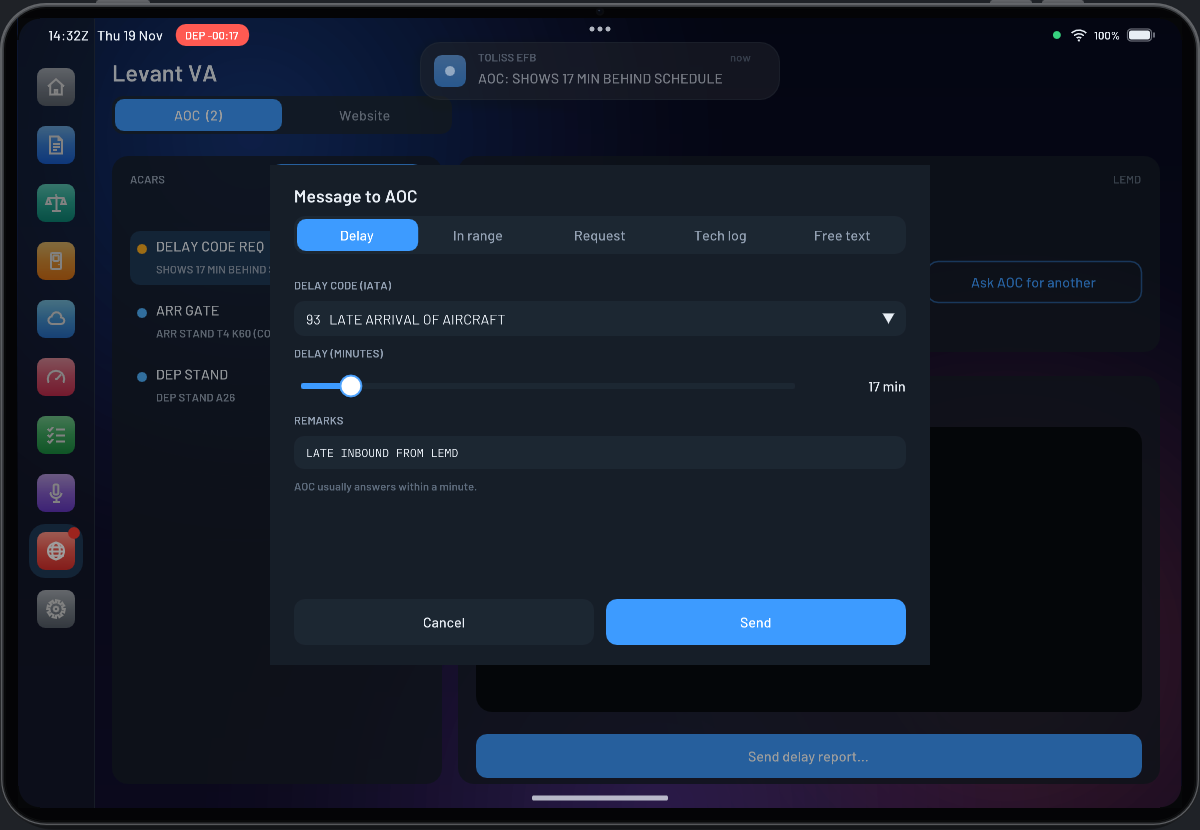
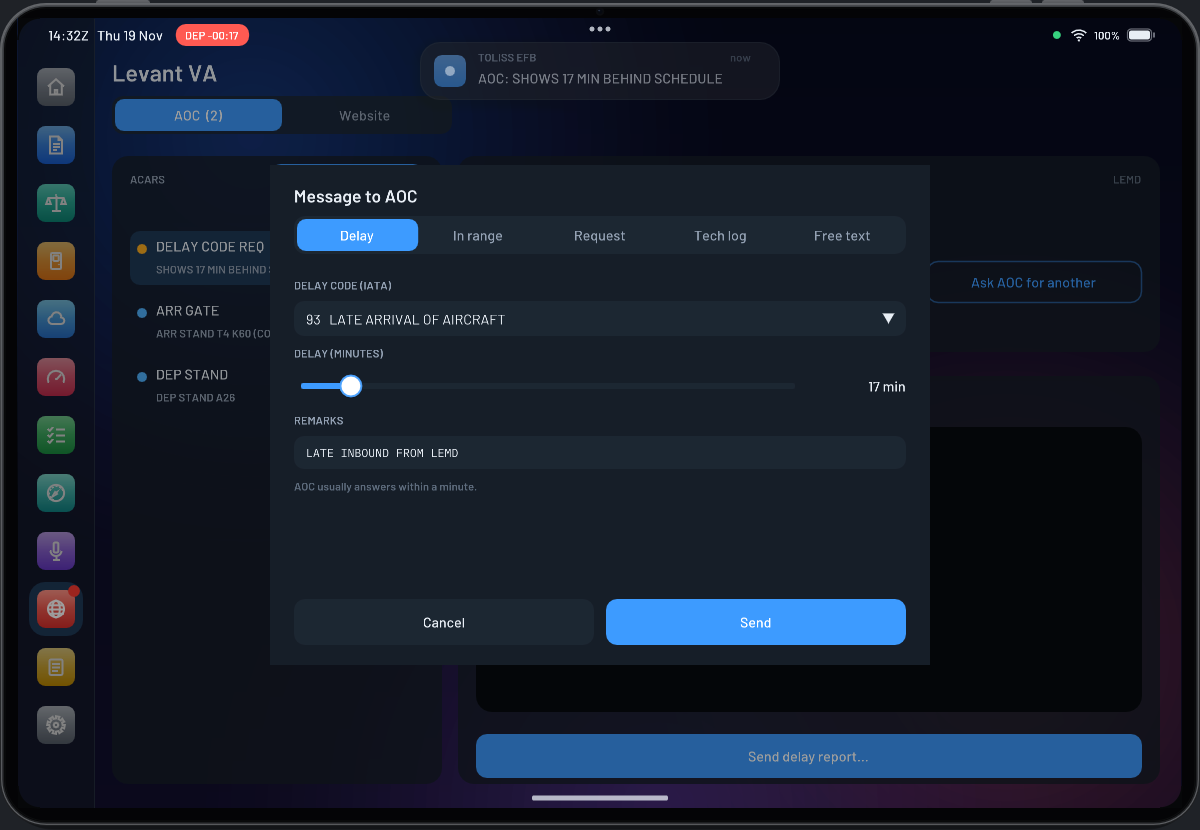
ToLiSS EFB v0.8.0

Changed region(s): [[0.0, 0.5723, 0.0925, 0.9036]]

diff --git a/README.md b/README.md
@@ -21,18 +21,24 @@ Everything is drawn in code and nothing is copied from any other product.
 | ![Loadsheet](docs/screenshots/loadsheet.png) | ![Ground](docs/screenshots/ground.png) |
 | **Takeoff calculator** | **Custom wallpaper** |
 | ![Perf](docs/screenshots/perf_calc.png) | ![Wallpaper](docs/screenshots/home_wallpaper.png) |
+| **Landing calculator** | **Map** |
+| ![Landing](docs/screenshots/landing_calc.png) | ![Map](docs/screenshots/map.png) |
+| **Logbook and landing rate** | **In flight: live ETA** |
+| ![Logbook](docs/screenshots/logbook.png) | ![In flight](docs/screenshots/home_inflight.png) |
 
 ## Apps
 
 | App | What it does |
 |---|---|
-| **Home** | An iPadOS Home Screen. Widgets: analog UTC clock, today's flight (route, OUT/OFF/ON/IN, block fuel, arrival stand), departure countdown ring, weather and live aircraft weights, pax, doors and CG. Tap a widget to open its app. App icons sit beside the widgets, and the dock at the bottom holds your favourite apps plus the ones you used last. |
+| **Home** | An iPadOS Home Screen. Widgets: analog UTC clock, today's flight (route, OUT/OFF/ON/IN, block fuel, arrival stand), departure countdown ring (after departure: the **live ETA** from where the aircraft is, distance to go and minutes early or late), weather and live aircraft weights, pax, doors and CG. Tap a widget to open its app. App icons sit beside the widgets, and the dock at the bottom holds your favourite apps plus the ones you used last. |
 | **Flight Plan** | Fetches your latest **SimBrief** OFP. Has Summary, Navlog, Fuel breakdown (stacked bar), Weights vs. limits and the full OFP text. The OFP is cached, so it's still there after a restart. |
 | **Loadsheet** | Plan pax, forward and aft cargo and block fuel (from the OFP or by hand). Loads the aircraft **instantly** or **realistically**: boarding, cargo and refuelling run over time with progress bars, pause and stop. Shows planned vs. actual ZFW/TOW/LW against MZFW/MTOW/MLW, and prints a final loadsheet. |
 | **Ground Ops** | Top-down aircraft diagram: tap a door to open or close it. Doors follow the aircraft's real door position, so a door opened from the ToLiSS ISCS shows as open, and doors swing on the diagram while moving. **Ground Power, Wheel Chocks, HP Air and LP Air** are found automatically on your aircraft. The **ToLiSS vehicles** tab drives the aircraft's own passenger stairs (1L, 2L), catering trucks (1R, 2R) and baggage loaders. **Customize** chooses which services are shown and which dataref each one uses. |
 | **Weather** | METAR and TAF from aviationweather.gov, with quick chips for origin, destination, alternate and nearest. Decodes wind, visibility, ceiling, temperature and QNH, and shows a flight-category badge. |
-| **Performance** | **Takeoff calculator** in the style of the airline tools (see below), plus the SimBrief takeoff/landing reports and a wind-component calculator. |
+| **Performance** | **Takeoff calculator** and **landing calculator** laid out like the ToLiSS ones (see below), plus the SimBrief takeoff/landing reports and a wind-component calculator. |
 | **Checklists** | Tap-through normal checklists by phase, with progress and a "next item" highlight. |
+| **Map** | Moving map like a navigation display: the SimBrief route with its waypoints and top of descent, the airports and their runways, the track you flew and your aircraft. Next waypoint, distance to go and ETA. Drag to move, + / - to zoom, ROUTE / PLANE to switch views. |
+| **Logbook** | Every flight is logged by itself at ON BLOCKS: OUT/OFF/ON/IN, block and air time, fuel used and the **landing rate** (ft/min, G and a grade from BUTTER to HARD), which also pops up right after touchdown. Totals, average and best landing, and an Export CSV button. |
 | **Airline** | AOC messages with your airline (see below) and the **Levant VA** website (https://levant-va.com/), opened in your web browser. The name and address can be changed. |
 | **Settings** | SimBrief ID, kg/lb, passenger weight, cargo split, boarding/cargo/refuel rates, night/day theme, accent colour, **iPad finish** (Space Grey, Silver, Starlight, Blue), brightness and window behaviour. **Background:** gradient presets, three bundled wallpapers or **your own picture**. Press *Upload picture...* to open your computer's file picker, or paste a link to a JPG/PNG. Uploads are kept in `Output/preferences/toliss_efb_wallpapers`, so plugin updates don't delete them. There's also a dim slider. **Cockpit:** calibration of the 3D tablet. **Diagnostics:** dataref mapping (green = found, red = missing) and a live **Explorer** of every dataref. |
 
@@ -125,6 +131,21 @@ The A320 numbers are matched to the ToLiSS calculator: for the same airport, wei
 (OEGN runway 15, 60.2 t, 32 °C, 227°/11 kt) both give CONF 1+F, FLEX 68, V1 114-138, VR 138, V2 140,
 THS UP0.7 and GREEN DOT 205. They are still **estimates, not certified data**.
 Always compare them with the ToLiSS MCDU PERF TAKE OFF page.
+
+## Landing calculator
+
+Performance > **Landing calc** works the same way for the arrival: the destination and its runways come from
+X-Plane's airport data (the plan's runway is picked first), the landing distance available (LDA) is the runway
+minus any displaced threshold, and the landing weight follows the flight (what's left after the fuel still to
+burn on the plan) until you type your own.
+
+* **VLS** is 1.23 × the 1-g stall speed in CONF FULL or 3; **VAPP** adds a third of the headwind (5 to 15 kt).
+* **Landing distance** from 50 ft over the threshold: the air distance to touchdown, 2 s to get the spoilers out
+  and the brakes on, then braking at the autobrake rate (LO 1.7, MED 3 m/s²) or the most the runway allows
+  (MAX MANUAL), with the reversers' help. Wind is factored 50 % headwind / 150 % tailwind, and the result × 1.15.
+* The runway picture shows the touchdown point and where you stop with each braking mode, and the runway left over.
+
+These are **estimates, not certified data**. Compare them with the ToLiSS MCDU and your own judgement.
 
 ## ⚠ First flight: verify the datarefs
 

diff --git a/CHANGELOG.md b/CHANGELOG.md
@@ -3,6 +3,12 @@
 Each version has a one-line summary (used for the Discord announcements and the release list)
 followed by the details.
 
+## 0.8.0 - 2026-11-21 - Live ETA, landing calculator, map and logbook
+- Live ETA after departure from where the aircraft is along the route: status bar, Home and AOC
+- Landing calculator: VLS, VAPP and landing distance with MAX MAN, MED and LO braking, with a runway picture
+- Map app with the route, top of descent, airports, your track and the aircraft
+- Landing rate (ft/min, G, grade) after every touchdown, and a Logbook app that records every flight
+
 ## 0.7.2 - 2026-11-21 - Takeoff calculator like the ToLiSS one
 - Same layout as the calculator in the ToLiSS tablet, in the Airbus cockpit font; values and labels stay in their own rows on the 3D cockpit tablet
 - Same numbers as the ToLiSS calculator for the A320: CONF, FLEX, V1 range, VR, V2, THS and GREEN DOT
